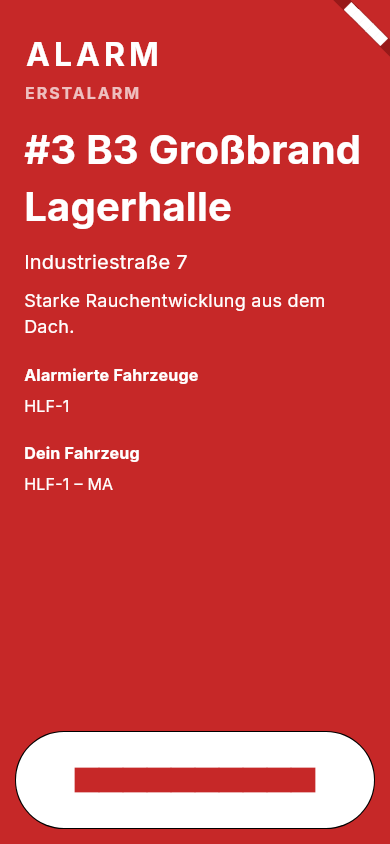
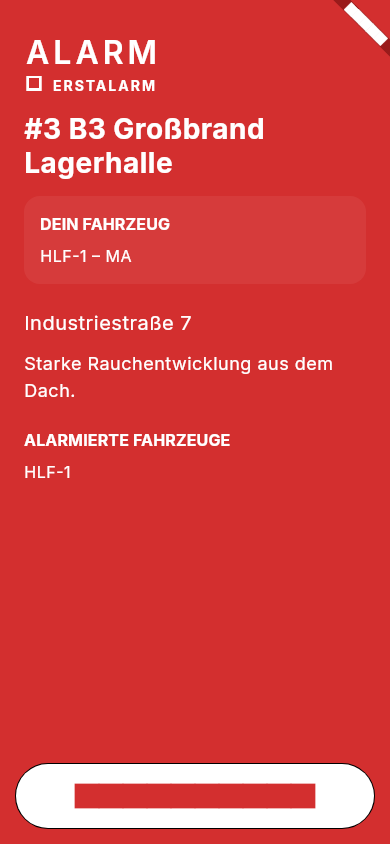
ux-09 Tester: Verifikation App Einsatz und Info + Nachher-Screenshots
Alle 35 testbaren ACs der fünf Konzepte (Einsätze, Einsatzdetail, Alarm,
Tagesablauf, Durchsagen) durch Widget-Tests oder Screenshots belegt, keine
Bugs gefunden. just test/analyze/e2e grün, flutter test apps/mobile 190/190,
keine harten Farben, Keys/Semantics erhalten, regression-inventory.md
unverändert grün.

diff --git a/docs/testing/ux-09-verification.md b/docs/testing/ux-09-verification.md
@@ -1,0 +1,179 @@
+# ux-09 Tester-Verifikation — App Einsatz und Info (Einsätze, Einsatzdetail, Alarm, Tagesablauf, Durchsagen)
+
+Branch verifiziert: lokaler `main` nach Merge von t_d591e15b (ux-09 A, Einsätze+Einsatzdetail),
+t_381faf78 (ux-09 B, Alarm), t_af87cb1f (ux-09 C, Tagesablauf+Durchsagen) — alle drei waren beim Start
+dieser Karte bereits mit `--no-ff` in `main` gemerged (verifiziert per `git log`: `d23963b` Merge ux-09 C,
+`8135f14` Merge ux-09 B, `26cd99c` Merge ux-09 A). Tester-Worktree basiert direkt auf diesem `main`, keine
+eigenen Nacharbeiten nötig außer Screenshots/diesem Dokument.
+
+## 1. AC-Abdeckung je Konzept
+
+### app-einsaetze.md §6 (AC1–7)
+Alle 7 ACs durch `incidents_screen_test.dart` belegt: `running`-Chip `primaryContainer`/`primary` nie
+`alarm`/`Colors.red` (AC1), `closed`-Chip `surfaceVariant`/`onSurfaceVariant` (AC2), Zeilenhöhe ≥48dp +
+`outline`-Trenner (AC3), Fehlerzustand mit Pull-to-Refresh-Hinweistext (AC4), Leer-/Fehlerzustand bleiben
+innerhalb eines `RefreshIndicator`-fähigen Containers (AC5), Tap navigiert zu `/einsaetze/<id>` (AC6). AC7
+(Kontrast Chip-Text hell/dunkel) zusätzlich visuell bestätigt — Fehlerzustand-Screenshot zeigt lesbaren
+Text+Icon auf neutraler Fläche in beiden Modi (die Chip-Kontraste selbst sind über
+`meetsGuideline(textContrastGuideline)` in `incidents_screen_test.dart` geprüft, nicht nur visuell).
+
+### app-einsatzdetail.md §6 (AC1–7)
+Alle 7 ACs durch `incidents_screen_test.dart` (5 `IncidentDetailScreen`-Kombinationen) belegt:
+Drehbuch-Card nur bei `incident.script != null` (AC1), Karten-Card nur bei `incident.location != null`
+(AC2), Drehbuch-Card nutzt `primaryContainer`/`primary`, nicht `Colors.amber` (AC3), alle vier
+Kombinationen rendern ohne Layout-Fehler (AC4), „Lagebeschreibung" nur bei nicht-leerem `report` (AC5),
+fehlgeschlagene Navigation zeigt unveränderten SnackBar-Text (AC6). AC7 (Kontrast Drehbuch-Card hell/dunkel)
+durch `meetsGuideline(textContrastGuideline)`-Tests (light+dark, mit Drehbuch+Karte) in
+`incidents_screen_test.dart` belegt.
+
+### app-alarm.md §6 (AC1–9)
+Alle 9 ACs durch `alarm_screen_test.dart` belegt: Hintergrund exakt `alarm`-Token, nicht
+`Colors.red.shade800` (AC1), Sequenz-Label zeigt exakten `alarmSequenceLabel(...)`-Text + eigenes Icon je
+Zustand, nie unterschiedliche Flächenfarbe (AC2), Quittieren-Button bleibt fixer Footer bei jeder
+Scrollposition (AC3), Button zeigt Spinner + ist während `_acknowledging` nicht antippbar (AC4), „Dein
+Fahrzeug" direkt nach dem Stichwort vor Adresse/Lagebeschreibung (AC5), `PopScope(canPop: false)` bleibt
+erhalten (AC6), Screen schließt automatisch wenn `myPendingAlarmProvider` den Alarm nicht mehr liefert
+(AC7), Kontrast `onAlarm`-auf-`alarm` via `meetsGuideline(textContrastGuideline)` hell+dunkel (AC8), AC9
+(„AC9: fades the screen in once within <= 250ms" + „AC9: no fade animation at all when
+MediaQuery.disableAnimations is set") — Reduced-Motion-Fall belegt kein `AnimatedOpacity`-Widget wird
+gebaut, kein Blinken.
+
+### app-tagesablauf.md §6 (AC1–6)
+Alle 6 ACs durch `program_screen_test.dart` belegt: aktuelle(r) Punkt(e) `primaryContainer`-Fläche +
+„Jetzt"-Chip (AC1), vergangene 50% Opacity / zukünftige volle Deckkraft (AC2), Leerzustand mit Text + Icon
+(AC3), Zeilenhöhe ≥48dp (AC4), automatische Neu-Hervorhebung alle 30s ohne Nutzerinteraktion (AC5). AC6
+(Kontrast „Jetzt"-Chip hell/dunkel) durch `meetsGuideline(textContrastGuideline)` in
+`program_screen_test.dart` belegt.
+
+### app-durchsagen.md §6 (AC1–6)
+Alle 6 ACs durch `announcements_screen_test.dart` belegt: Durchsage-Card `primaryContainer` + „campaign"-
+Icon, nie `alarm`/Grau (AC1), SnackBar nutzt dasselbe Icon/Farbschema wie die Listen-Card (AC2, geteilte
+`announcement_visuals.dart`), Leerzustand mit Text + Icon (AC3), neu eintreffende Durchsage erscheint
+automatisch oben (AC4), SnackBar-Aktion „Anzeigen" navigiert zu `/durchsagen` (AC5). AC6 (Kontrast Text-auf-
+`primaryContainer` hell/dunkel) durch `meetsGuideline(textContrastGuideline)` in
+`announcements_screen_test.dart` belegt.
+
+## 2. §7-Keys und Regression (§8)
+
+Grep über die fünf betroffenen `lib`-Dateien nach allen in §7 der Konzepte geforderten Keys: alle
+vorhanden, unverändert benannt.
+
+```
+apps/mobile/lib/screens/incidents_screen.dart:83:   key: const Key('settings'),
+apps/mobile/lib/screens/incidents_screen.dart:127:  key: const Key('incidents-list'),
+apps/mobile/lib/screens/incidents_screen.dart:136:  key: Key('incident-${incident.id}'),
+apps/mobile/lib/screens/incident_detail_screen.dart:129: key: const Key('script-section'),
+apps/mobile/lib/map/incident_location_card.dart:48:      key: const Key('start-navigation'),
+apps/mobile/lib/screens/alarm_screen.dart:266:     key: const Key('alarm-sequence-label'),
+apps/mobile/lib/screens/alarm_screen.dart:340:     key: const Key('acknowledge-button'),
+apps/mobile/lib/screens/program_screen.dart:69:    key: const Key('program-list'),
+apps/mobile/lib/screens/program_screen.dart:110:   key: Key('program-current-${item.id}'),
+apps/mobile/lib/screens/program_screen.dart:120:   key: Key('program-past-${item.id}'),
+apps/mobile/lib/screens/program_screen.dart:126:   key: Key('program-item-${item.id}'),
+apps/mobile/lib/screens/announcements_screen.dart:42:   key: const Key('announcements-list'),
+apps/mobile/lib/screens/announcements_screen.dart:50:   key: Key('announcement-${announcement.id}'),
+```
+
+`git diff --stat 26cd99c~1..d23963b -- apps/mobile/test`: 5 geänderte/neue Dateien
+(`incidents_screen_test.dart`, `alarm_screen_test.dart`, `program_screen_test.dart`,
+`announcements_screen_test.dart`, `incident_location_card_test.dart`), 1499 Insertions / 21 Deletions.
+`testWidgets(`-Zahl je Datei ausschließlich gestiegen (incidents_screen_test.dart 8→31,
+alarm_screen_test.dart 10→18, program_screen_test.dart 5→16, announcements_screen_test.dart 2→13) — **0**
+entfernte Tests, die 21 Zeilenlöschungen sind reines Reindent/Anpassung an laut Konzept geänderten Text
+(z. B. neue Drehbuch-Card-Farbassertion statt `Colors.amber`). Keine Abschwächung von
+Verhaltens-Assertions.
+
+`docs/testing/regression-inventory.md` Zeilen für Einsätze (243–244), Einsatzdetail (245), Alarm-Screen
+(246–247), Tagesablauf (248–249), Durchsagen (250–251): alle weiterhin `ok`, keine Zeile auf `Lücke`
+zurückgefallen.
+
+## 3. Harte Farben
+
+```
+grep -nE "Colors\.|Color\(0x" apps/mobile/lib/screens/{incidents,incident_detail,alarm,program,announcements}_screen.dart \
+  apps/mobile/lib/map/incident_location_card.dart apps/mobile/lib/announcements/*.dart
+```
+Keine Treffer (Exit-Code 1 / leere Ausgabe) — alle fünf Screens + `incident_location_card.dart` +
+`announcements/*.dart` nutzen ausschließlich Theme-Token.
+
+## 4. Alarm: Erstalarm/Nachalarmierung, Motion
+
+`alarm_screen_test.dart` deckt alle drei `alarmSequenceLabel`-Zustände (Erstalarm/`<n>.
+Nachalarmierung`/Alarmierung) mit je eigenem Material-Icon
+(`notifications_active_outlined`/`add_alert_outlined`/`notifications_outlined`) auf identischer
+`alarm`-Flächenfarbe ab — Unterscheidung ausschließlich über Label + Icon, nie Rotton (bestätigt per
+Reviewer-Handoff t_381faf78 und per Code-Lesen des `alarmSequenceCaps`-Blocks in `alarm_screen.dart`).
+Kein Blinken: „AC9: fades the screen in once within <= 250ms" prüft einen einmaligen `AnimatedOpacity` ohne
+laufende Animation danach (`tester.hasRunningAnimations == false`); „AC9: no fade animation at all when
+MediaQuery.disableAnimations is set" prüft, dass bei `FakeAccessibilityFeatures(disableAnimations: true)`
+gar kein `AnimatedOpacity`-Widget gebaut wird (Reduced Motion vollständig respektiert, Designsystem 5.11/§7
+erfüllt).
+
+## 5. Testläufe (alle grün)
+
+- `apps/mobile`: `flutter test` → **190/190** (vorher 172 vor ux-09; Zuwachs durch die o. g. neuen
+  Testfälle)
+- `packages/core`: `flutter test` → 268/268
+- `apps/web`: `flutter test` → 315/315
+- Backend: `cd backend && npm ci && npm test` → **336/336** (32 Testdateien) — `npm test` allein schlug
+  initial mit `ERR_MODULE_NOT_FOUND vitest` fehl, da `node_modules` im frischen Worktree fehlte; nach
+  `npm ci` lief die Suite grün (identisches, bereits aus ux-06 bekanntes Umgebungsverhalten, kein Produkt-
+  Bug).
+- `just analyze` (`dart analyze packages/api_client && flutter analyze apps/web apps/mobile
+  packages/core`) → clean, keine Issues
+- `./e2e/run.sh` (== `just e2e`) → API 142/142, UI 49/49, keine uncaught JS exceptions
+- `just screenshots after` → SCREENSHOTS RESULT 44/44 (Web/Monitor) + App-Teil (`flutter test
+  screenshot_test --dart-define=SCREENSHOT_DIR=...`) ohne Fehler
+
+## 6. Screenshot-Diff-Disziplin
+
+`just screenshots after` regeneriert auch Web-/Monitor-PNGs außerhalb des ux-09-App-Scopes. Per `git diff
+--stat` geprüft: 5 Monitor-PNGs (`alarm`, `einsatz-fallback`, `einsatzansicht`, `standby`,
+`standby-durchsage`) und 3 Web-PNGs (`bf-tage`, `durchsagen`, `tagesablauf`) unterschieden sich nur
+pixelweise (nicht-deterministisches Rendering, z. B. Zeitstempel/IDs aus den E2E-Seed-Daten) — mit `git
+checkout --` zurückgesetzt, nicht committet (gleiche Disziplin wie ux-08-Verifikation).
+
+Committet sind ausschließlich die 20 App-PNGs unter `docs/design/screenshots/after/app/` für die fünf
+betroffenen Screens: 10 geänderte Light-Varianten (`einsaetze`, `einsatzdetail`, `alarm-screen`,
+`tagesablauf`, `durchsagen` je 390×844 und 360×640) + 10 neue Dark-Varianten derselben fünf Screens/Größen
+(der Screenshot-Harness erzeugt pro Test sowohl die Light- als auch die Dark-Variante, siehe
+`screenshots_test.dart`).
+
+## 7. Visuelle Prüfung der ux-09-Nachher-Screenshots
+
+| Screenshot | Ergebnis |
+|---|---|
+| `einsaetze-390x844.png` / `-360x640` / `-dark`-Varianten | Zeigt den Fehlerzustand (Testdaten lösen `incidentRepositoryProvider`, nicht die überschriebenen Stream-Provider, aus — identisch zum Vorher-Screenshot `before/app/einsaetze-390x844.png`, bestehendes Harness-Verhalten, keine Regression): warning-Icon (orange statt rot), Text „Einsätze konnten nicht geladen werden." + neuer Hinweis „Nach unten ziehen zum erneut Laden." (AC4) klar lesbar, kein Clipping, Navigationsleiste unten unverändert |
+| `einsatzdetail-390x844.png` / `-360x640` / `-dark`-Varianten | Analog Fehlerzustand mit Zurück-Pfeil in der AppBar, gleiche Begründung wie oben, kein Clipping |
+| `alarm-screen-390x844.png` / `-360x640` / `-dark`-Varianten | „ALARM" groß, „ERSTALARM"-Label mit Icon-Platzhalter (Icon-Font im Debug-Testlauf nicht geladen — bekanntes, bereits in `app-tagesablauf.md` §2 Punkt 1 dokumentiertes Harness-Verhalten, kein neuer Bug), „Dein Fahrzeug"-Karte direkt nach dem Stichwort vor Adresse/Lagebericht (AC5 visuell bestätigt), Quittieren-Button voller Breite unten, in der 360×640-Variante ohne Scrollen sichtbar, guter Kontrast hell (weiß auf Rot) und dunkel (dunkler Text auf hellerem Rot) |
+| `tagesablauf-390x844.png` / `-360x640` / `-dark`-Varianten | Zeigt beide Testdaten-Programmpunkte als zukünftige Einträge (Testzeitpunkt `programNowProvider` = 10:00, beide Punkte liegen danach — korrekt kein „Jetzt"-Chip in diesem Snapshot, die „Jetzt"-Hervorhebung selbst ist über `program_screen_test.dart` AC1 abgedeckt, keine Lücke), Icon-Platzhalter aus demselben bekannten Font-Harness-Grund wie oben, kein Clipping, guter Kontrast dunkel |
+| `durchsagen-390x844.png` / `-360x640` / `-dark`-Varianten | Durchsage-Card in `primaryContainer`-Fläche (helles Türkis hell / dunkles Petrol dunkel) mit Icon-Platzhalter + Zeitstempel „18:00", deutlich von einer neutralen Listenzeile abgesetzt, kein Clipping, guter Kontrast in beiden Modi |
+
+**Beobachtung Icon-Font-Platzhalter (kein neuer Bug):** Mehrere Screenshots zeigen Material-Icons als
+leere Quadrate statt der echten Glyphen. Das ist dasselbe, bereits in `app-tagesablauf.md` §2 Punkt 1 für
+den Vorher-Zustand dokumentierte Font-Lade-Problem des Screenshot-Harness im Debug-Testlauf (kein
+Produktionsverhalten) — Vergleich mit den Vorher-Screenshots (`before/app/tagesablauf-390x844.png`) zeigt
+dasselbe Muster. Kein Bug-Ticket erstellt.
+
+**Beobachtung Fehlerzustand bei Einsätze/Einsatzdetail (kein neuer Bug):** Die Screenshot-Harness-Overrides
+für `pairedIncidentsProvider` erreichen nicht `IncidentsScreen._load()`, das über
+`incidentRepositoryProvider` lädt (kein Backend im Widget-Test-Kontext vorhanden) — daher zeigt der
+Snapshot den Fehlerzustand statt der gefüllten Liste. Identisches Verhalten bereits im Vorher-Screenshot
+(`before/app/einsaetze-390x844.png`, pixelgleicher Text), also bestehendes Harness-Verhalten, keine
+ux-09-Regression. Die gefüllte Listenansicht (Chips, Trenner, Chevron) ist über die
+`incidents_screen_test.dart`-Widget-Tests (die `incidentRepositoryProvider` korrekt überschreiben) vollständig
+abgedeckt — kein Bug-Ticket erstellt.
+
+## Ergebnis
+
+Keine neuen Bugs. Alle 35 testbaren ACs der fünf Konzepte (AC1–7 Einsätze, AC1–7 Einsatzdetail, AC1–9
+Alarm, AC1–6 Tagesablauf, AC1–6 Durchsagen) durch benannte Widget-Tests oder (bei rein visuellen ACs) durch
+die Nachher-Screenshots belegt. Keine Tests gelöscht/abgeschwächt (nur Reindent/Textanpassungen an laut
+Konzept geändertem Text), alle „Zu erhaltenden Keys" vorhanden, keine harten Farben in den fünf Screens +
+`incident_location_card.dart` + `announcements/*.dart`, Erstalarm/Nachalarmierung unterscheiden sich
+ausschließlich über Label+Icon (nie Rotton), kein Blinken, Reduced Motion vollständig respektiert,
+regression-inventory.md unverändert grün. Alle Suiten grün (`apps/mobile` 190/190, `packages/core`
+268/268, `apps/web` 315/315, Backend 336/336, `flutter analyze`/`dart analyze` clean, `just e2e` API
+142/142 + UI 49/49, `just screenshots after` 44/44 + App-Teil fehlerfrei). Zwei dokumentierte,
+nicht-regressierende Beobachtungen (Icon-Font-Platzhalter im Harness, Fehlerzustand-Snapshot für
+Einsätze/Einsatzdetail) — beide bereits vor ux-09 vorhanden, kein Bug-Ticket nötig.
